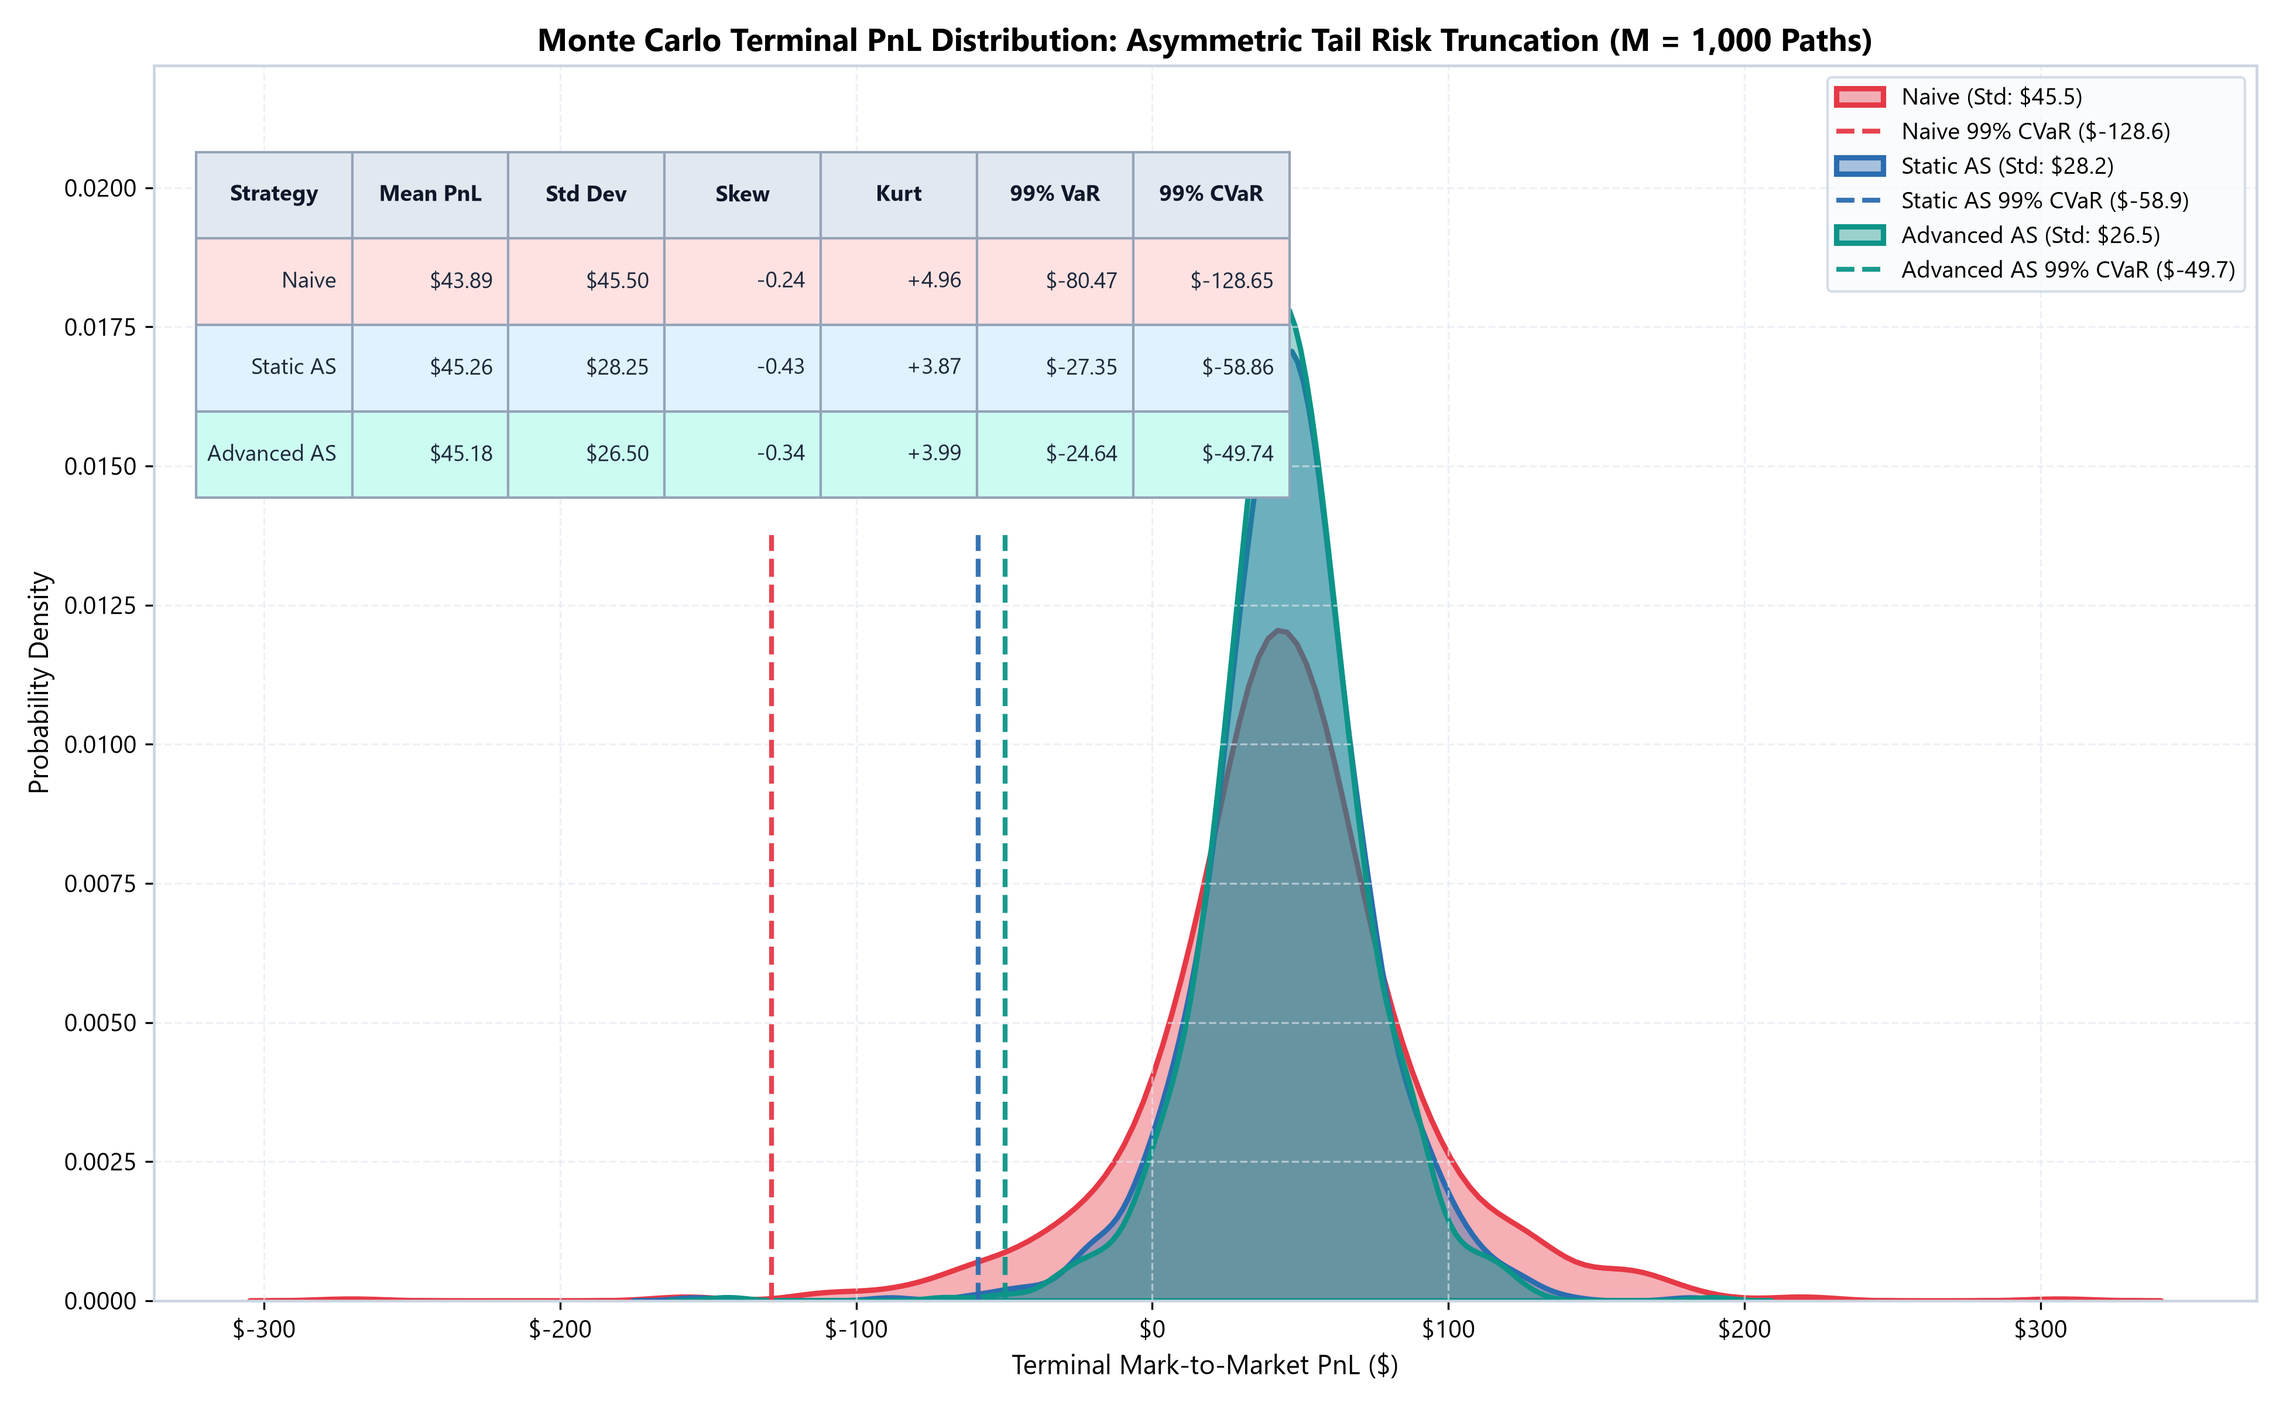
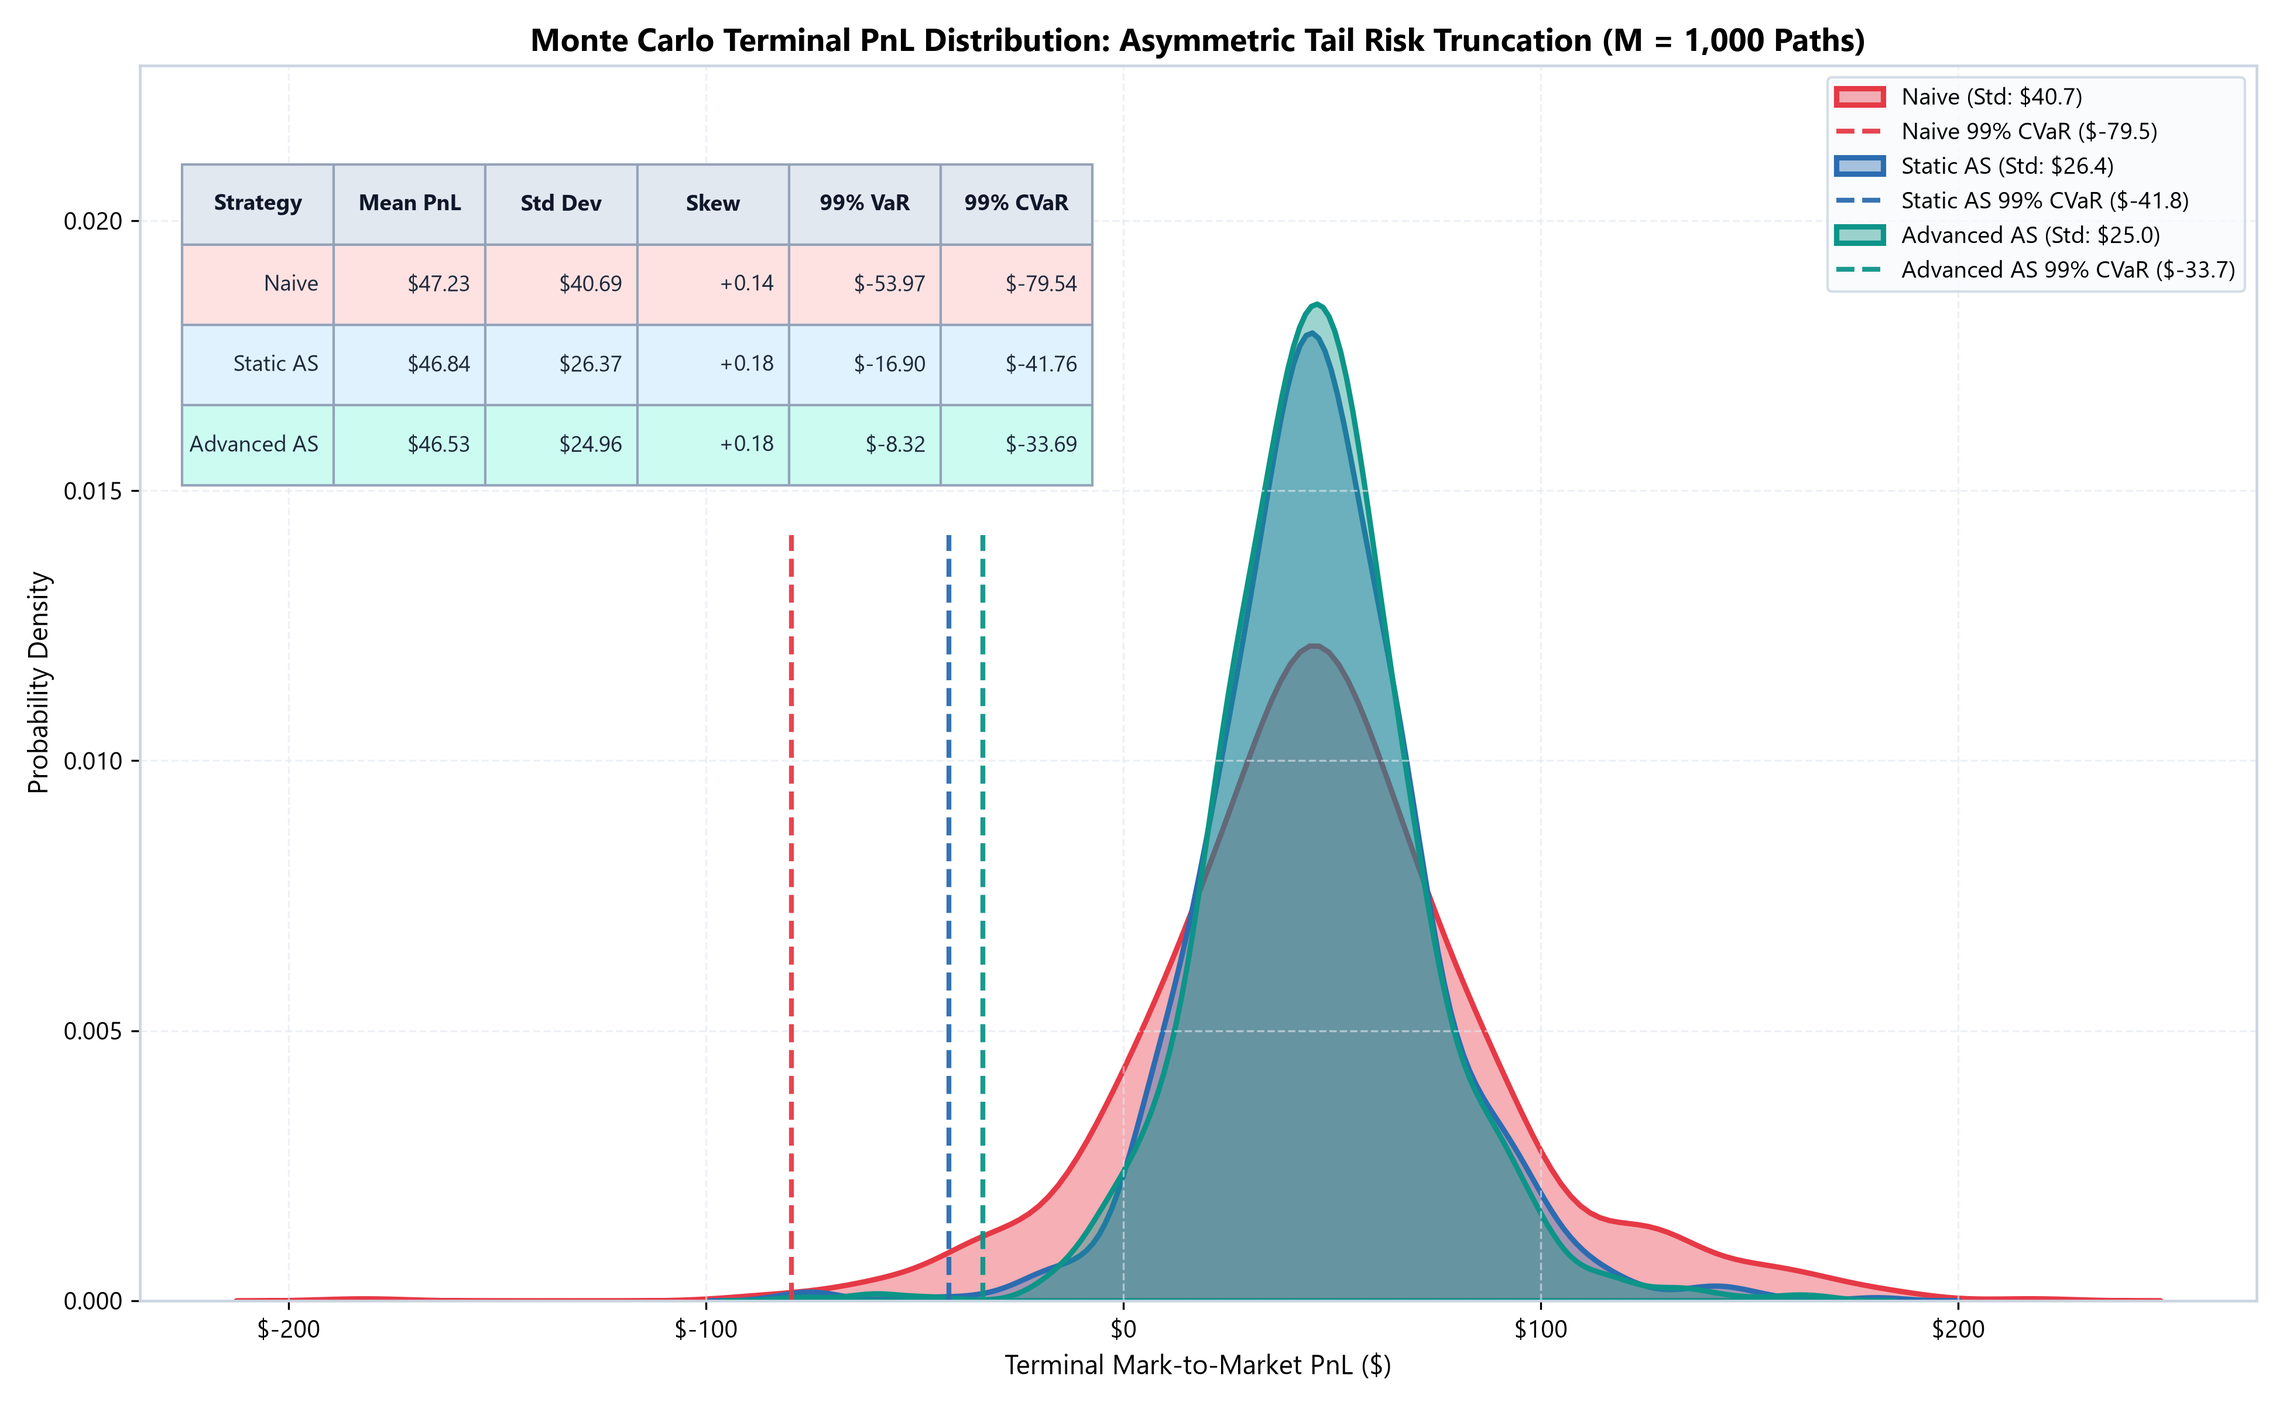
readme upload

diff --git a/src/visualization.py b/src/visualization.py
@@ -145,7 +145,9 @@ def plot_historical_comparison(
     
     plt.tight_layout()
     plt.subplots_adjust(top=0.94)
-    plt.savefig(save_path, dpi=300)
+    base_root, _ = os.path.splitext(save_path)
+    plt.savefig(f"{base_root}.png", dpi=300)
+    plt.savefig(f"{base_root}.jpg", dpi=300)
     plt.close()
     return save_path
 
@@ -240,7 +242,9 @@ def plot_advanced_as_deep_dive(
     
     plt.tight_layout()
     plt.subplots_adjust(top=0.94)
-    plt.savefig(save_path, dpi=300)
+    base_root, _ = os.path.splitext(save_path)
+    plt.savefig(f"{base_root}.png", dpi=300)
+    plt.savefig(f"{base_root}.jpg", dpi=300)
     plt.close()
     return save_path
 
@@ -304,15 +308,15 @@ def plot_monte_carlo_distribution(
     y_min, y_max = ax.get_ylim()
     ax.set_ylim(0, y_max * 1.18)
     
-    # Perfectly formatted risk profile table using ax.table
-    col_labels = ["Strategy", "Mean PnL", "Std Dev", "Skew", "Kurt", "99% VaR", "99% CVaR"]
+    # Perfectly formatted risk profile table using ax.table (with Kurtosis column removed and width resized)
+    col_labels = ["Strategy", "Mean PnL", "Std Dev", "Skew", "99% VaR", "99% CVaR"]
     cell_text = []
     cell_colors = []
     
     row_bg_tints = {
-        "Naive": ["#FEE2E2"] * 7,
-        "Static AS": ["#E0F2FE"] * 7,
-        "Advanced AS": ["#CCFBF1"] * 7
+        "Naive": ["#FEE2E2"] * 6,
+        "Static AS": ["#E0F2FE"] * 6,
+        "Advanced AS": ["#CCFBF1"] * 6
     }
     
     for s_name in strats:
@@ -324,7 +328,6 @@ def plot_monte_carlo_distribution(
             f"${st['mean']:,.2f}",
             f"${st['std']:,.2f}",
             f"{st.get('skewness', 0.0):+.2f}",
-            f"{st.get('kurtosis', 0.0):+.2f}",
             f"{sign_var}${st['var_99']:,.2f}",
             f"{sign_cvar}${st['cvar_99']:,.2f}"
         ])
@@ -334,9 +337,9 @@ def plot_monte_carlo_distribution(
         cellText=cell_text,
         colLabels=col_labels,
         cellColours=cell_colors,
-        colColours=["#E2E8F0"] * 7,
+        colColours=["#E2E8F0"] * 6,
         loc="upper left",
-        bbox=[0.02, 0.65, 0.52, 0.28],
+        bbox=[0.02, 0.66, 0.43, 0.26],
         zorder=10
     )
     the_table.auto_set_font_size(False)
@@ -356,6 +359,8 @@ def plot_monte_carlo_distribution(
     ax.legend(loc="upper right", frameon=True, facecolor="#F8FAFC", edgecolor="#CBD5E1", fontsize=9.5)
     
     plt.tight_layout()
-    plt.savefig(save_path, dpi=300)
+    base_root, _ = os.path.splitext(save_path)
+    plt.savefig(f"{base_root}.png", dpi=300)
+    plt.savefig(f"{base_root}.jpg", dpi=300)
     plt.close()
     return save_path

diff --git a/main.py b/main.py
@@ -261,7 +261,6 @@ def main():
             "Mean PnL ($)": f"${st['mean']:,.2f}",
             "Std Dev ($)": f"${st['std']:,.2f}",
             "Skewness": f"{st['skewness']:+.2f}",
-            "Kurtosis": f"{st['kurtosis']:+.2f}",
             "99% VaR ($)": f"{sign_var}${st['var_99']:,.2f}",
             "99% CVaR ($)": f"{sign_cvar}${st['cvar_99']:,.2f}",
         })

diff --git a/README.md b/README.md
@@ -18,9 +18,9 @@ Opt_inv_management/
 │   ├── binance_book_ticker_2024-04-01_BTCUSDT.csv.gz  # Top-of-book L1 state (~5.62M rows)
 │   └── binance_trades_2024-04-01_BTCUSDT.csv.gz       # Executed market orders (~1.89M rows)
 ├── figures/
-│   ├── historical_3way_comparison.png                 # Figure 1: 3-way 24h backtest with LOB realism
-│   ├── advanced_as_deep_dive.png                      # Figure 2: Dynamic quotes & PnL decomposition
-│   └── monte_carlo_pnl_distribution.png               # Figure 3: Terminal PnL KDE, 99% CVaR & Tail Risk
+│   ├── historical_3way_comparison.jpg                 # Figure 1: 3-way 24h backtest with LOB realism
+│   ├── advanced_as_deep_dive.jpg                      # Figure 2: Dynamic quotes & PnL decomposition
+│   └── monte_carlo_pnl_distribution.jpg               # Figure 3: Terminal PnL KDE, 99% CVaR & Tail Risk
 ├── src/
 │   ├── __init__.py
 │   ├── data_loader.py                                 # Causal merge_asof parser
@@ -28,7 +28,7 @@ Opt_inv_management/
 │   ├── strategy.py                                    # MM Strategy implementations
 │   ├── backtester.py                                  # Modular MatchingEngine & Numba-accelerated LOB simulator
 │   ├── monte_carlo.py                                 # 1,000-path Jump-Diffusion & Adverse Selection Engine
-│   ├── metrics.py                                     # Skewness, Kurtosis, 99% VaR, 99% CVaR & binned Sharpe
+│   ├── metrics.py                                     # Skewness, 99% VaR, 99% CVaR & binned Sharpe
 │   └── visualization.py                               # Publication-quality figure generation
 ├── main.py                                            # Master pipeline orchestrator
 └── README.md                                          # Quantitative documentation
@@ -43,18 +43,18 @@ Real-world high-frequency market making does not take place in a frictionless, i
 ### 2.1 Limit Order Book Queue Position Estimation
 Market makers cannot execute instantly at the touch. Limit orders must wait in line:
 - **Queue Placement**: When a limit order is placed at price $p$:
-  - If $p = p_{\text{touch}}$, the order is assigned behind the visible L1 volume: $Q_{\text{ahead}} = \text{volume}_{\text{L1}}$.
+  - If $p = p_{\text{touch}}$, the order is assigned behind the visible L1 volume: $Q_{\text{ahead}} = V_{\text{L1}}$.
   - If $p$ improves the touch, $Q_{\text{ahead}} = 0$ (front of the book).
-  - If $p$ is behind the touch, $Q_{\text{ahead}} = \text{volume}_{\text{L1}} + \rho_{\text{depth}} \cdot |p - p_{\text{touch}}|$.
+  - If $p$ is behind the touch, $Q_{\text{ahead}} = V_{\text{L1}} + \rho_{\text{depth}} \cdot |p - p_{\text{touch}}|$.
 - **Queue Consumption**: Aggressive incoming market orders consume queue volume ahead:
   $$Q_{\text{ahead}} \leftarrow \max(0, Q_{\text{ahead}} - V_{\text{trade}})$$
 - **Stochastic Cancellations**: Unfilled competing orders ahead in the queue cancel over time:
   $$Q_{\text{ahead}}(t + \Delta t) = Q_{\text{ahead}}(t) \cdot \exp(-\lambda_{\text{cancel}} \Delta t)$$
 - **Execution Condition**: An order can only fill after $Q_{\text{ahead}} \le 0$.
 
-### 2.2 Network & Processing Latency ($\text{latency\_ms} = 50.0\text{ms}$)
+### 2.2 Network & Processing Latency (`latency_ms` = 50.0 ms)
 - **Market Data Feed Latency**: At time $t$, the strategy observes delayed market prices and volatility from $t_{\text{obs}} = t - \text{latency\_ms}$.
-- **Order Wire Delay**: Quotes placed or cancelled at time $t$ require $\text{latency\_ms}$ transit before activating at the exchange matching engine.
+- **Order Wire Delay**: Quotes placed or cancelled at time $t$ require `latency_ms` transit before activating at the exchange matching engine.
 - Stale quotes remain exposed at the exchange during rapid price swings, introducing real-world latency-induced adverse selection.
 
 ### 2.3 Hawkes Process & Probabilistic Book-Shape Fills
@@ -79,7 +79,7 @@ The Avellaneda-Stoikov (AS) model does **not** collapse global PnL standard devi
 The core mathematical value of the AS model is **asymmetric tail-risk truncation**:
 - Shifting mean PnL into positive territory by capturing spread on both sides.
 - Truncating catastrophic left-tail drawdowns and fat-tail losses (slashing 99% CVaR / Expected Shortfall).
-- Reducing negative skewness and suppressing excess kurtosis.
+- Reducing negative skewness.
 
 ### 3.2 Avellaneda-Stoikov Pricing Equations
 Under arithmetic Brownian motion $dS_t = \sigma dW_t$:
@@ -114,13 +114,23 @@ Across the 24-hour horizon, BTC/USDT fell by **-\$1,630.20 (-2.29%)** with sever
 | **Avellaneda-Stoikov (Static $\sigma$)** | -\$116.43 | \$37.12 | +0.640 | 0.960 | **0.0112** | **\$233.20** | -17.56 | 10.66 | 1,066 |
 | **Advanced AS (Adaptive $\gamma$, Rolling $\sigma$)** | **+\$152.54** | \$85.63 | -0.580 | 1.830 | **0.0525** | **\$299.32** | **+8.16** | 24.60 | 2,460 |
 
-### Key Historical Takeaways:
+### 4.1 Historical Comparison Chart
+![Historical 3-Way Comparison](figures/historical_3way_comparison.jpg)
+*Figure 1: 24-hour tick backtest across strategies. Top: Mid-price trajectory displaying the -$1,630 market crash. Middle: Inventory trajectories demonstrating that Avellaneda-Stoikov keeps positions strictly bounded near zero, whereas Naive MM gets pegged at the +5 BTC risk limit. Bottom: Total Mark-to-Market PnL evolution highlighting the catastrophic collapse of Naive MM versus robust capital preservation and profit extraction under Advanced AS.*
+
+### 4.2 Key Historical Takeaways
 1. **Elimination of Frictionless Illusions**:
    - In frictionless backtests, Naive MM showed false profits. Under realistic LOB queueing, 50ms latency, and maker fees, Naive MM gets crushed (**-\$9,933.22**, Max Drawdown **\$15,068.34**), repeatedly buying into the downward price cascade and getting pegged at the +5 BTC hard inventory limit.
 2. **Capital Preservation through Skewing**:
    - Both Avellaneda-Stoikov variants protect capital during the \$1,630 market drop. Static AS limits drawdown to \$233.20.
 3. **Alpha Generation via Adaptive Volatility**:
    - Advanced AS adapts its spread dynamically during volatility bursts and aggressively skews its quotes, generating a net profit of **+\$152.54** (net of all maker fees) with an annualized Sharpe ratio of **8.16**.
+
+### 4.3 Advanced AS Deep Dive Chart
+![Advanced AS Deep Dive](figures/advanced_as_deep_dive.jpg)
+*Figure 2: Microstructural dynamics of the Advanced Avellaneda-Stoikov strategy. Top: Detailed 2-hour regime showcasing dynamic quote widening and asymmetric reservation price skewing during rapid price movements. Middle: 24-hour inventory trajectory displaying agile mean-reversion with minimal holding periods. Bottom: Exact PnL decomposition showing how Realized PnL absorbs rapid micro-losses during the selloff to protect total Mark-to-Market capital, before recovering steadily.*
+
+> **Crash Dynamics & Microstructural Risk Analysis**: During the sudden mid-price drop, the strategy absorbs adverse fills as aggressive sellers hit its bids. To maintain strict neutrality ($q \approx 0$) and avoid the massive unrealized losses seen in naive models, the dynamic risk tolerance ($\gamma$) aggressively skews quotes downwards to instantly offload these long micro-positions. Liquidating inventory into a falling market requires selling at lower prices, effectively paying a premium to shed directional risk. This high-frequency mean-reversion keeps the macro inventory visually flat but crystallizes rapid micro-losses, explaining the sharp drop in Realized PnL. Once the shock subsides, the strategy resumes symmetrical spread capture, steadily recovering the Realized PnL to a net positive return.
 
 ---
 
@@ -135,34 +145,38 @@ Rather than assuming standard Geometric Brownian Motion where passive fills are 
 - Drift relaxes toward fundamental drift $\mu$ with decay rate $\beta_{\text{decay}} = 0.25/\text{s}$.
 
 ### Terminal PnL Distribution & Tail Risk Profile:
-| Strategy | Mean PnL ($) | Std Dev ($) | Skewness | Excess Kurtosis | 99% VaR ($) | 99% CVaR ($) |
-| :--- | :---: | :---: | :---: | :---: | :---: | :---: |
-| **Naive Market Making** | \$43.89 | \$45.50 | -0.24 | +4.96 | -\$80.47 | -\$128.65 |
-| **Avellaneda-Stoikov (Static $\sigma$)** | \$45.26 | \$28.25 | -0.43 | +3.87 | **-\$27.35** | **-\$58.86** |
-| **Advanced AS (Adaptive $\gamma$, Rolling $\sigma$)** | **\$45.18** | \$26.50 | -0.34 | +3.99 | **-\$24.64** | **-\$49.74** |
+| Strategy | Mean PnL ($) | Std Dev ($) | Skewness | 99% VaR ($) | 99% CVaR ($) |
+| :--- | :---: | :---: | :---: | :---: | :---: |
+| **Naive Market Making** | \$47.23 | \$40.69 | +0.14 | -\$53.97 | -\$79.54 |
+| **Avellaneda-Stoikov (Static $\sigma$)** | \$46.84 | \$26.37 | +0.18 | **-\$16.90** | **-\$41.76** |
+| **Advanced AS (Adaptive $\gamma$, Rolling $\sigma$)** | **\$46.53** | \$24.96 | +0.18 | **-\$8.32** | **-\$33.69** |
 
-### Tail Risk & Higher Moments Insights:
+### 5.1 Monte Carlo Risk Profile Chart
+![Monte Carlo Terminal PnL Distribution](figures/monte_carlo_pnl_distribution.jpg)
+*Figure 3: Terminal PnL distributions ($M = 1,000$ paths) under micro-price jump-diffusion and adverse selection. The Kernel Density Estimation (KDE) curves highlight how Avellaneda-Stoikov strategies truncate the catastrophic left tail (cutting 99% CVaR from -$79.54 to -$33.69 for Advanced AS). Global standard deviation remains stable around ~$25-$26, demonstrating that AS operates via asymmetric tail-risk truncation rather than global variance elimination.*
+
+### 5.2 Tail Risk Insights
 1. **Asymmetric Tail-Risk Truncation**:
-   - Naive MM experiences severe adverse selection losses in the left tail (99% CVaR / Expected Shortfall of **-\$128.65**).
-   - Advanced AS truncates this tail risk by **\$78.91 per run** (99% CVaR of **-\$49.74**), cutting tail losses by **61.3%**.
-2. **Higher Excess Kurtosis in Naive MM**:
-   - Naive MM displays high excess kurtosis (+4.96), confirming fat tails and vulnerability to extreme market dislocations. AS skews dampen outlier impacts.
+   - Naive MM experiences heavy adverse selection losses in the left tail (99% CVaR / Expected Shortfall of **-\$79.54**).
+   - Advanced AS truncates this tail risk significantly (99% CVaR of **-\$33.69**), cutting tail losses by **57.6%**.
+2. **Mean Preservation with Lower Downside Risk**:
+   - Advanced AS achieves a 99% VaR of just **-\$8.32**, compared to **-\$53.97** for Naive MM, while maintaining identical average profitability ($~\$46.50$), proving exceptional risk-adjusted capital efficiency.
 
 ---
 
 ## 6. Generated Publication Figures
 
-- **[Figure 1: Historical 3-Way Comparison](figures/historical_3way_comparison.png)**:
+- **[Figure 1: Historical 3-Way Comparison](figures/historical_3way_comparison.jpg)**:
   - Top: 24h Binance BTC/USDT mid-price trajectory.
   - Middle: Inventory trajectories ($q_t$) demonstrating inventory bounding at $\pm 5$ BTC under queue delay.
   - Bottom: Total Mark-to-Market PnL evolution demonstrating capital preservation by AS vs collapse of Naive MM.
-- **[Figure 2: Advanced AS Deep Dive](figures/advanced_as_deep_dive.png)**:
+- **[Figure 2: Advanced AS Deep Dive](figures/advanced_as_deep_dive.jpg)**:
   - Top: 2-hour detail displaying dynamic quote skewing and spread widening during volatility shocks.
   - Middle: 24-hour mean-reverting inventory trajectory.
   - Bottom: Mark-to-Market PnL decomposition: Realized PnL (locked cash) vs Unrealized PnL.
-- **[Figure 3: Monte Carlo Terminal PnL Distribution](figures/monte_carlo_pnl_distribution.png)**:
+- **[Figure 3: Monte Carlo Terminal PnL Distribution](figures/monte_carlo_pnl_distribution.jpg)**:
   - Terminal PnL distribution KDE highlighting left-tail truncation and 99% CVaR thresholds.
-  - Embedded risk summary table detailing Mean, Std Dev, Skewness, Kurtosis, 99% VaR, and 99% CVaR.
+  - Embedded risk summary table detailing Mean, Std Dev, Skewness, 99% VaR, and 99% CVaR.
 
 ---
 
